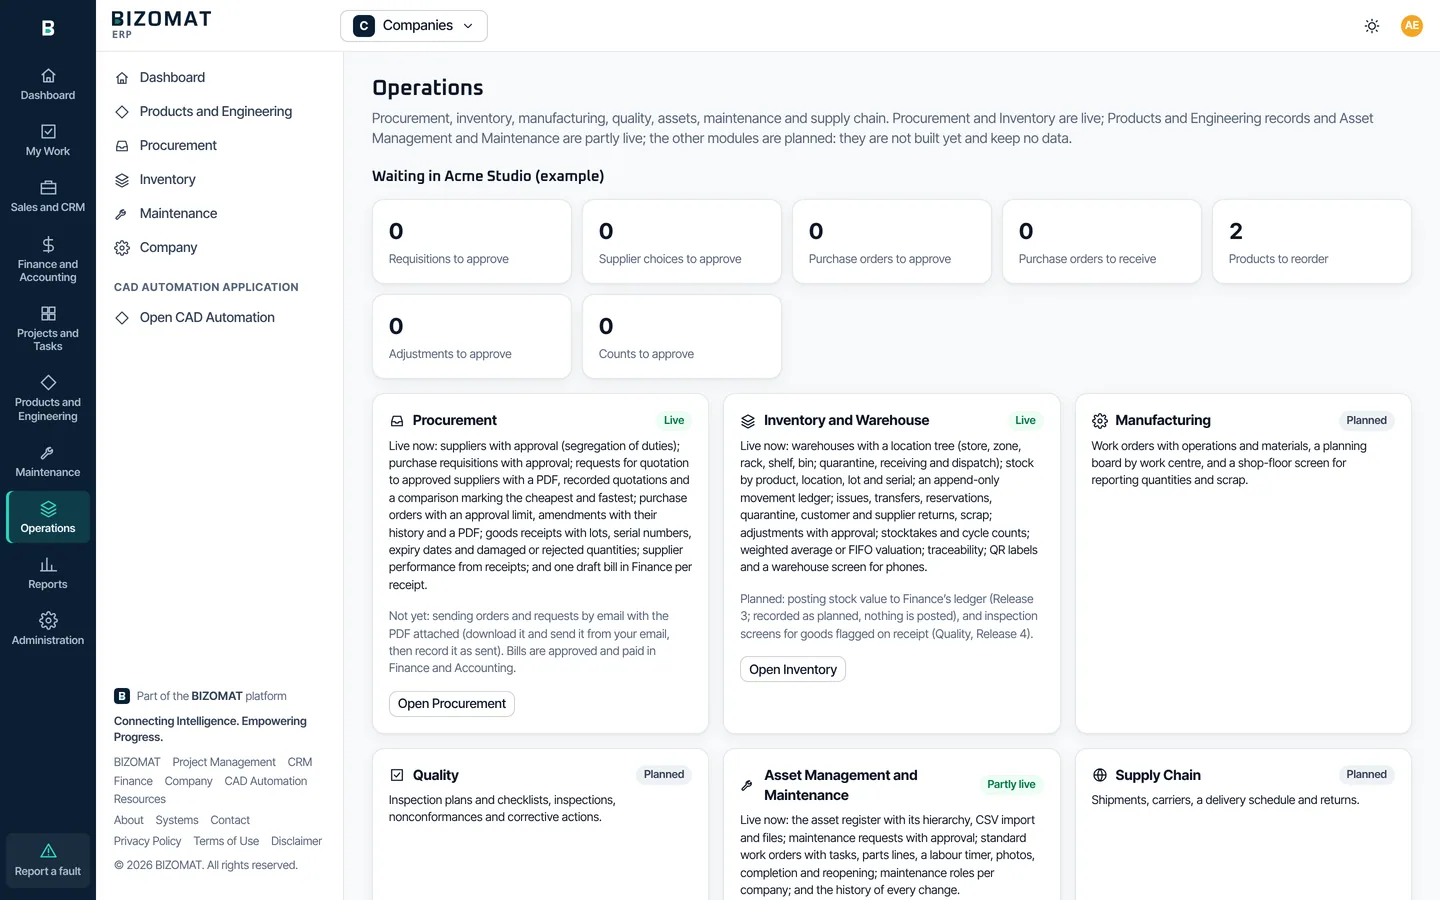
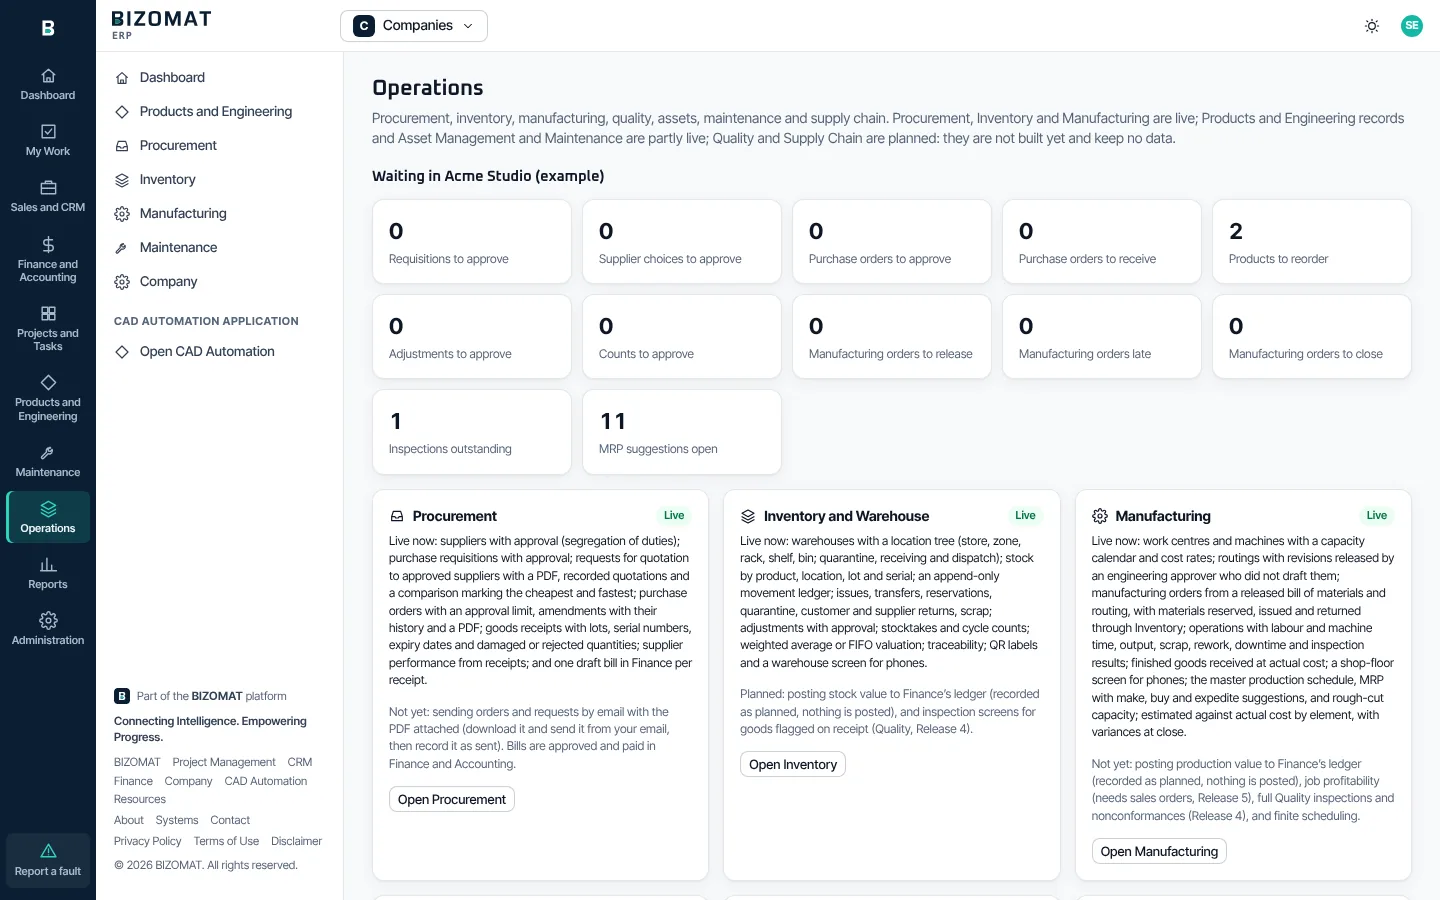
ERP Release 3 (work in progress): website statuses, pages and product screens
Manufacturing's built and tested features are labelled Live (routings, production orders,
the shop floor, MES, labour and machine tracking, WIP cost, scrap and rework, production
costing, master production scheduling, MRP, rough-cut capacity, production analytics);
production value postings to Finance, job profitability, finite scheduling, OEE and Quality
stay Planned. The ERP and Manufacturing and Operations pages and the ERP guide describe it;
three product screens of the example company; the Operations screen recaptured. The
Manufacturing and Operations system keeps its Planned status. One sentence of the founder's
letter no longer lists manufacturing as planned.

Claude-Session: https://claude.ai/code/session_01UdVmoNV4sEtcj8dyKHhasR

diff --git a/src/data/erp-capabilities.ts b/src/data/erp-capabilities.ts
@@ -38,9 +38,16 @@
 //     movement ledger, reservations, returns, quarantine, scrap, adjustments, counts, weighted average and FIFO
 //     valuation, traceability, QR labels and the warehouse screen (apps/work/src/worker/erp, migration
 //     0021_erp_purchasing_inventory.sql; Scenarios B and C and the rule tests in apps/work/test/erp-r2.test.ts and
-//     test-node/erp-r2.test.ts). Inventory postings to Finance's ledger are Release 3: planned.
-//   Everything else (sales orders, manufacturing, quality, supply chain, service, human capital): docs/erp/architecture/02
-//     to 10. Nothing of it is built, so it is planned.
+//     test-node/erp-r2.test.ts). Inventory postings to Finance's ledger: planned.
+//   ERP Release 3 (owner's brief of 14 Nov 2026, Release 3; built on the branch erp-release-3, live once merged and
+//     deployed): work centres and machines, routings with revisions, manufacturing orders with materials, operations,
+//     labour and machine time, output, scrap, rework, downtime and inspection points, finished-goods receipts at actual
+//     cost, the shop floor, the master production schedule, MRP, rough-cut capacity, job costing by element and the
+//     manufacturing reports (apps/work/src/worker/erp, migration 0022_erp_manufacturing.sql; Scenario D and the rule
+//     tests in apps/work/test/erp-r3.test.ts and test-node/erp-r3.test.ts). Production value postings to Finance's
+//     ledger, job profitability, finite scheduling and full Quality: planned.
+//   Everything else (sales orders, quality, supply chain, service, human capital): docs/erp/architecture/02 to 10.
+//     Nothing of it is built, so it is planned.
 // Rule: if a feature cannot be found in the code or the docs above, it is planned. Notes are public text: plain
 // language, no file paths, no repository names.
 //
@@ -188,7 +195,7 @@ export const ERP_DOMAINS: readonly ErpDomain[] = [
       cap('Model import and export', 'live', 'STEP, IGES and Parasolid in; STEP, STL, Parasolid and IGES out.'),
       cap('Bill of materials (BOM) management', 'live', 'Lines with quantity, unit, scrap allowance, reference designators, position, effective dates, optional lines and alternatives. A bill of materials belongs to a revision and locks when it is released.'),
       cap('Multi-level BOM', 'live', 'Explosion through every level, where-used, comparison of two revisions and material cost roll-up, with missing costs flagged. Loops are refused. Each component\'s available stock, and shortages for a build quantity.'),
-      cap('Routings', 'planned'),
+      cap('Routings', 'live', 'Revisions of a product\'s routing: operations at work centres and machines with set-up and run times, crew, inspection points, outsourced steps and predecessors. Released by an engineering approver who did not draft them; copied to a new draft.'),
       cap('Engineering revisions', 'live', 'Draft, in a change order, released and superseded. A release supersedes the previous revision in the same step.'),
       cap('Engineering change requests and orders (ECR and ECO)', 'live', 'Approved and released by an engineering approver who did not draft the change order; in a company of one, the exception is recorded.'),
       cap('Document management', 'live', 'Engineering documents per product and revision, with versions and approval: an uploaded file, or a reference to a CAD file on the engineer\'s own computer. DXF and STEP files are checked and only ever downloaded.'),
@@ -202,28 +209,28 @@ export const ERP_DOMAINS: readonly ErpDomain[] = [
     id: 'manufacturing',
     name: 'Manufacturing',
     summary: 'Planning and making products: production orders, materials, capacity, the shop floor and production cost.',
-    servedBy: 'BIZOMAT ERP Manufacturing (planned module)',
+    servedBy: 'BIZOMAT ERP Manufacturing',
     features: [
-      cap('Discrete manufacturing', 'planned'),
+      cap('Discrete manufacturing', 'live', 'Manufacturing orders made from a released bill of materials and a released routing.'),
       cap('Process manufacturing', 'planned', 'After discrete manufacturing: needs formulas and batch records.'),
-      cap('Repetitive manufacturing', 'planned'),
-      cap('Make to stock', 'planned'),
-      cap('Make to order', 'planned'),
-      cap('Engineer to order', 'planned', 'Today a deal can start a project in Projects to track the work, without production records.'),
+      cap('Repetitive manufacturing', 'planned', 'An order can be marked repetitive; rate-based schedules are planned.'),
+      cap('Make to stock', 'live', 'Orders for stock, planned by MRP from the master production schedule, stock and reorder points.'),
+      cap('Make to order', 'live', 'An order carries its customer or job as a reference, and confirmed demand is entered in the master production schedule. Links to sales orders come with Release 5.'),
+      cap('Engineer to order', 'planned', 'An order can be marked engineer to order with a job reference. Engineering and costing tied to a project are planned.'),
       cap('Project manufacturing', 'planned'),
-      cap('Master production scheduling', 'planned'),
-      cap('Material requirements planning (MRP)', 'planned'),
-      cap('Capacity planning', 'planned'),
+      cap('Master production scheduling', 'live', 'Forecast or confirmed demand per product, quantity and due date, with a reference.'),
+      cap('Material requirements planning (MRP)', 'live', 'Level by level through released bills of materials, from confirmed demand, stock less reservations, open purchase and manufacturing orders, lead times, safety stock, reorder points and order sizes. Suggestions to make (a draft order), buy (a requisition) or expedite, marked late or overdue. Each run is kept with its inputs.'),
+      cap('Capacity planning', 'live', 'Rough-cut: load per work centre per week against its available hours, with overloads flagged. Finite scheduling is planned.'),
       cap('Advanced planning and scheduling', 'planned'),
-      cap('Production orders', 'planned'),
-      cap('Job management', 'planned'),
-      cap('Shop-floor control', 'planned'),
-      cap('Manufacturing execution (MES)', 'planned'),
-      cap('Labour and machine tracking', 'planned'),
-      cap('Work in progress (WIP)', 'planned'),
-      cap('Scrap and rework', 'planned'),
-      cap('Production costing', 'planned'),
-      cap('Overall equipment effectiveness (OEE)', 'planned'),
+      cap('Production orders', 'live', 'Draft, released, in progress, completed and closed, or cancelled; materials with the scrap allowance, operations copied from the routing, estimated cost, assigned people, and amendments with their history.'),
+      cap('Job management', 'planned', 'Orders carry a job reference, assigned people and priorities. Job boards are planned.'),
+      cap('Shop-floor control', 'live', 'A screen for phones: jobs ready and in progress per work centre, progress, shortages, outstanding inspections and machines down.'),
+      cap('Manufacturing execution (MES)', 'live', 'Operations started in order (or overlapping where allowed), labour per person by timer or minutes, machine time, output, scrap, rework, downtime and inspection results, then completed. Connections to machines are planned.'),
+      cap('Labour and machine tracking', 'live'),
+      cap('Work in progress (WIP)', 'live', 'The cost of each open order to date. Posting it to Finance\'s ledger is planned: nothing is posted.'),
+      cap('Scrap and rework', 'live', 'Scrap with a reason at each operation and materials scrapped against an order; rework quantities and rework time.'),
+      cap('Production costing', 'live', 'Estimated against actual by element (materials, labour, machine, outsourcing, overheads, scrap, rework), finished goods valued at actual cost, and variances recorded at close. Job profitability is planned: it needs sales orders.'),
+      cap('Overall equipment effectiveness (OEE)', 'planned', 'Downtime and output are recorded; the OEE measure is planned.'),
     ],
   },
   {
@@ -235,8 +242,8 @@ export const ERP_DOMAINS: readonly ErpDomain[] = [
       cap('Multi-warehouse', 'live'),
       cap('Bins and locations', 'live', 'A tree of store, zone, rack, shelf and bin, with quarantine, receiving, dispatch, work-in-progress and finished-goods locations.'),
       cap('Raw materials', 'live', 'Any product but a service can be kept in stock.'),
-      cap('Work in progress stock', 'planned', 'Work-in-progress locations exist; stock moving through production comes with Manufacturing.'),
-      cap('Finished goods', 'live', 'Kept, moved and counted like any stock. Production into stock comes with Manufacturing.'),
+      cap('Work in progress stock', 'planned', 'Work-in-progress locations exist. Materials issued to a manufacturing order leave stock and their cost is carried on the order until finished goods are received.'),
+      cap('Finished goods', 'live', 'Kept, moved and counted like any stock, and received from manufacturing orders at actual cost.'),
       cap('Stock movements', 'live', 'An append-only ledger: every movement with its document, never changed or deleted.'),
       cap('Batch and lot tracking', 'live', 'With expiry dates, and traceability from the supplier, order and receipt to every later move.'),
       cap('Serial numbers', 'live', 'One unit each, never in stock twice.'),
@@ -245,7 +252,7 @@ export const ERP_DOMAINS: readonly ErpDomain[] = [
       cap('Barcodes', 'live', 'Product numbers, SKUs and location codes typed on the warehouse screen, or read by the phone\'s camera where the browser can read codes. Not every browser can.'),
       cap('QR scanning', 'live', 'QR labels for products and locations, made by BIZOMAT itself, to print and scan.'),
       cap('Reservations', 'live'),
-      cap('Stock valuation', 'live', 'Weighted average or first in, first out, chosen before the first movement and then locked. Posting stock value to Finance\'s ledger is planned (Release 3): nothing is posted today.'),
+      cap('Stock valuation', 'live', 'Weighted average or first in, first out, chosen before the first movement and then locked. Posting stock value to Finance\'s ledger is planned: nothing is posted today.'),
       cap('Cycle counts', 'live', 'Stocktakes and cycle counts with count sheets and variances, approved by a warehouse manager who did not count, then posted as movements.'),
       cap('Picking and packing', 'planned', 'Issues from a location work today; pick lists and packing are planned.'),
       cap('Receiving', 'live', 'Against purchase orders, on a computer or a phone.'),
@@ -261,7 +268,7 @@ export const ERP_DOMAINS: readonly ErpDomain[] = [
     features: [
       cap('Demand planning', 'planned'),
       cap('Supply planning', 'planned'),
-      cap('Material planning', 'planned'),
+      cap('Material planning', 'live', 'MRP in Manufacturing: what to make and buy, from confirmed demand, stock and open orders.'),
       cap('Inventory optimisation', 'planned'),
       cap('Warehouse management', 'planned', 'The warehouse operations of Inventory and Warehouse.'),
       cap('Transportation management', 'planned'),
@@ -281,7 +288,7 @@ export const ERP_DOMAINS: readonly ErpDomain[] = [
     features: [
       cap('Supplier quality', 'planned'),
       cap('Incoming inspection', 'planned'),
-      cap('In-process inspection', 'planned'),
+      cap('In-process inspection', 'planned', 'A routing operation can be an inspection point recording a pass or fail with a note. Inspection plans, results by characteristic and nonconformances come with Quality.'),
       cap('Final inspection', 'planned'),
       cap('Quality plans', 'planned'),
       cap('Nonconformance reports (NCR)', 'planned'),
@@ -434,7 +441,7 @@ export const ERP_DOMAINS: readonly ErpDomain[] = [
       cap('Operational KPIs', 'planned', 'Each tool\'s own dashboard is live. Measures across modules, such as on-time delivery, are planned.'),
       cap('Financial analytics', 'live', 'The Finance dashboard and reports.'),
       cap('Sales analytics', 'live', 'The CRM dashboard and reports.'),
-      cap('Production analytics', 'planned'),
+      cap('Production analytics', 'live', 'Manufacturing reports: production output, work order progress, material consumption, labour utilisation, production variance, machine downtime, MRP suggestions and capacity load.'),
       cap('Predictive forecasting', 'planned'),
       cap('Exception detection', 'planned', 'Rule-based alerts exist in Finance (due, overdue, budgets nearly spent) and the CRM (overdue follow-ups).'),
       cap('AI business assistant', 'planned', 'AI apps work in SOLIDWORKS through CAD Automation, and AI Search covers the public website. An assistant over ERP records is planned.'),

diff --git a/src/data/screenshots.ts b/src/data/screenshots.ts
@@ -14,12 +14,16 @@ const ALL: readonly Screenshot[] = [
   { src: '/proof-of-work/product/erp-finance.webp', product: 'erp', title: 'BIZOMAT ERP: Finance and Accounting', caption: 'Finance opens inside the ERP, in the company\'s business workspace.' },
   { src: '/proof-of-work/product/erp-projects.webp', product: 'erp', title: 'BIZOMAT ERP: Projects and Tasks', caption: 'A project board inside the ERP: groups, owners, statuses and dates.' },
   { src: '/proof-of-work/product/erp-engineering.webp', product: 'erp', title: 'BIZOMAT ERP: Products and Engineering', caption: 'CAD Automation\'s set-up steps and the computers this person may see.' },
-  { src: '/proof-of-work/product/erp-operations.webp', product: 'erp', title: 'BIZOMAT ERP: Operations', caption: 'What waits for approval or receiving, then the operations modules: Procurement and Inventory live, Maintenance partly live, the others labelled Planned.' },
+  { src: '/proof-of-work/product/erp-operations.webp', product: 'erp', title: 'BIZOMAT ERP: Operations', caption: 'What waits for approval, receiving or production, then the operations modules: Procurement, Inventory and Manufacturing live, the others labelled as they stand.' },
   // ERP Release 2, captured 15 Nov 2026 from a local instance with the example company's invented data.
   { src: '/proof-of-work/product/erp-procurement.webp', product: 'erp', title: 'BIZOMAT ERP: a request for quotation', caption: 'Two suppliers\' quotations side by side, with the cheapest and the fastest marked, ready for a buyer to select one.' },
   { src: '/proof-of-work/product/erp-inventory.webp', product: 'erp', title: 'BIZOMAT ERP: Inventory', caption: 'Stock by product: on hand, reserved, available, on order, reorder points and value.' },
   { src: '/proof-of-work/product/erp-reports.webp', product: 'erp', title: 'BIZOMAT ERP: Reports', caption: 'Every report of the company\'s tools in one place; each opens in its module.' },
   { src: '/proof-of-work/product/erp-administration.webp', product: 'erp', title: 'BIZOMAT ERP: Administration', caption: 'The company, each tool\'s team and settings, and your own profile.' },
+  // ERP Release 3, captured 15 Nov 2026 from a local instance with the example company's invented data.
+  { src: '/proof-of-work/product/erp-manufacturing.webp', product: 'erp', title: 'BIZOMAT ERP: a manufacturing order', caption: 'Materials reserved and issued, and each operation with its output, the inspection point and an outsourced step.' },
+  { src: '/proof-of-work/product/erp-shop-floor.webp', product: 'erp', title: 'BIZOMAT ERP: the shop floor', caption: 'The job in progress at a work centre, with its progress, the outstanding inspection and large buttons for the operator.' },
+  { src: '/proof-of-work/product/erp-mrp.webp', product: 'erp', title: 'BIZOMAT ERP: planning', caption: 'The master production schedule and MRP’s suggestions to make and buy, with their dates and messages.' },
   { src: '/proof-of-work/product/erp-maintenance.webp', product: 'erp', title: 'BIZOMAT ERP: Maintenance', caption: 'The maintenance overview: requests awaiting approval, open and overdue work orders, your work and the asset register.' },
   { src: '/proof-of-work/product/erp-maintenance-assets.webp', product: 'erp', title: 'BIZOMAT ERP: an asset', caption: 'An asset in its hierarchy, with its details, outstanding work, the assets under it, files and history.' },
   { src: '/proof-of-work/product/erp-maintenance-requests.webp', product: 'erp', title: 'BIZOMAT ERP: maintenance requests', caption: 'Requests by status, with priority and asset, ready for a supervisor to approve, decline or ask for more.' },

diff --git a/src/config/systems.ts b/src/config/systems.ts
@@ -44,7 +44,7 @@ export const SYSTEMS: readonly SystemInfo[] = [
     formerly: 'BIZOMAT System',
     line: 'One workspace for your company: sales, finance, projects, engineering and administration, by company.',
     status: 'partial',
-    statusNote: 'Working today: the workspace, the dashboard by company, Sales and CRM, Finance and Accounting, Projects and Tasks, Products and Engineering (products, bills of materials, revisions, engineering changes, documents and CAD Automation), Procurement (suppliers, requisitions, quotations, purchase orders and goods receipts), Inventory (warehouses, stock, movements, counts and valuation), Maintenance (assets, requests and work orders), Reports and Administration. Manufacturing, quality and supply chain are planned.',
+    statusNote: 'Working today: the workspace, the dashboard by company, Sales and CRM, Finance and Accounting, Projects and Tasks, Products and Engineering (products, bills of materials, revisions, engineering changes, documents and CAD Automation), Procurement (suppliers, requisitions, quotations, purchase orders and goods receipts), Inventory (warehouses, stock, movements, counts and valuation), Manufacturing (work centres, routings, manufacturing orders, the shop floor, MRP, capacity and job costing), Maintenance (assets, requests and work orders), Reports and Administration. Quality and supply chain are planned.',
     url: '/systems/erp/',
     guide: '/systems/erp/guide/',
     access: { href: erp, label: 'Open BIZOMAT ERP', note: 'Sign in with your BIZOMAT account. Every module opens inside the ERP.' },
@@ -109,7 +109,7 @@ export const SYSTEMS: readonly SystemInfo[] = [
     short: 'Manufacturing and Operations',
     line: 'Procurement, inventory, manufacturing, quality, maintenance and supply chain, as ERP modules.',
     status: 'planned',
-    statusNote: 'Partly built: Procurement, Inventory and the first stage of Maintenance work today inside BIZOMAT ERP. Manufacturing, quality and supply chain are planned, not built.',
+    statusNote: 'Partly built: Procurement, Inventory, Manufacturing (work centres, routings, manufacturing orders, the shop floor, MRP, capacity and job costing) and the first stage of Maintenance work today inside BIZOMAT ERP. Quality and supply chain are planned, not built.',
     url: '/systems/manufacturing/',
     module: 'Operations',
   },

diff --git a/src/config/products.ts b/src/config/products.ts
@@ -37,7 +37,7 @@ export const PRODUCTS: readonly Product[] = [
     fullName: 'BIZOMAT ERP',
     formerly: 'BIZOMAT System',
     tagline: 'One workspace for your company, with every system inside it.',
-    summary: 'Sales and CRM, Finance and Accounting, Projects and Tasks, Products and Engineering, Procurement, Inventory, Maintenance, Reports and Administration in one workspace, by company, with one sign-in. Manufacturing and quality are planned.',
+    summary: 'Sales and CRM, Finance and Accounting, Projects and Tasks, Products and Engineering, Procurement, Inventory, Manufacturing, Maintenance, Reports and Administration in one workspace, by company, with one sign-in. Quality and supply chain are planned.',
     status: 'available',
     url: '/systems/erp/',
     signIn: true,
